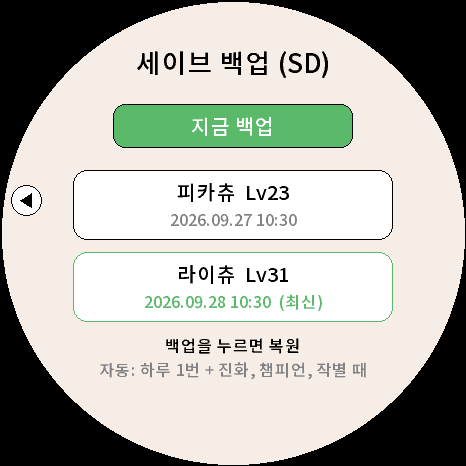
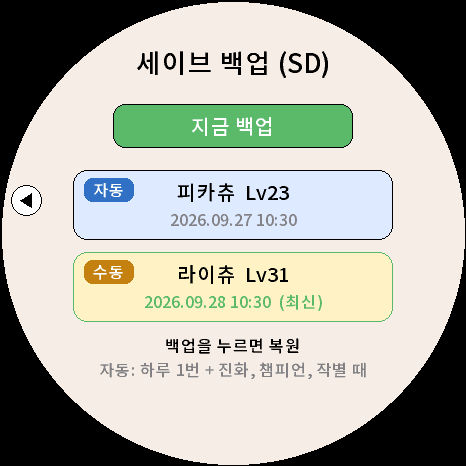
claude-version: backups marked manual/auto (header flags) with their own tag and colour - ko11.6.1, not built
Claude-Session: https://claude.ai/code/session_01CiwvMdFH9wtdhm1XA9VgMB

Changed region(s): [[0.1502, 0.5408, 0.8412, 0.691], [0.1502, 0.3605, 0.8412, 0.5107]]

diff --git a/claude-version/TamaPoke/savebak.h b/claude-version/TamaPoke/savebak.h
@@ -24,8 +24,9 @@ struct __attribute__((packed)) BakHdr {
   uint32_t epoch;    // cuando se hizo (0 = sin reloj)
   int16_t dex;       // el que se estaba criando (para ensenarlo al restaurar)
   uint16_t lvl;
-  uint32_t reserved;
+  uint32_t flags;    // ko11.6.1: BAKF_* (antes "reserved" = 0)
 };
+enum : uint32_t { BAKF_MANUAL = 1 };  // hecha con [ahora] (si no, automatica)
 static_assert(sizeof(BakHdr) == 24, "BakHdr");
 
 static inline uint32_t bakCrc32(const uint8_t *p, size_t n, uint32_t crc = 0) {
@@ -40,7 +41,7 @@ static inline uint32_t bakCrc32(const uint8_t *p, size_t n, uint32_t crc = 0) {
 class BakWriter {
 public:
   BakWriter(uint8_t *buf, size_t cap) : b_(buf), cap_(cap) {}
-  void begin(uint32_t seq, uint32_t epoch, int16_t dex, uint16_t lvl) {
+  void begin(uint32_t seq, uint32_t epoch, int16_t dex, uint16_t lvl, uint32_t flags = 0) {
     n_ = 0;
     ok_ = cap_ >= sizeof(BakHdr) + 4;
     if (!ok_) return;
@@ -52,6 +53,7 @@ public:
     h.epoch = epoch;
     h.dex = dex;
     h.lvl = lvl;
+    h.flags = flags;
     memcpy(b_, &h, sizeof(h));
     n_ = sizeof(h);
   }
@@ -123,5 +125,5 @@ static inline bool bakParse(const uint8_t *buf, size_t len, BakHdr *hdr, BakRecF
 struct BakSlot { bool ok; BakHdr h; };
 void bakInfo(BakSlot out[2]);                         // las dos ranuras de la SD (CRC comprobado)
 int bakNewest(const BakSlot s[2]);                    // -1 si no hay ninguna valida
-bool bakBackupNow(int16_t dex, uint16_t lvl, uint32_t epoch);  // escribe en la ranura mas vieja
+bool bakBackupNow(int16_t dex, uint16_t lvl, uint32_t epoch, bool manual = false);  // en la ranura mas vieja
 bool bakRestore(uint8_t slot);                        // NVS <- ranura; hay que reiniciar despues

diff --git a/claude-version/TamaPoke/i18n_ext.cpp b/claude-version/TamaPoke/i18n_ext.cpp
@@ -89,7 +89,7 @@ static const char *const XS[2][X_COUNT] = {
     "SAVE BACKUP", "SAVE BACKUP (SD)", "BACK UP NOW", "empty", "latest", "No SD card", "Backed up!", "Backup failed",
     "Backup found on the SD card", "RESTORE", "CANCEL", "Restore this backup?", "Current progress will be lost",
     "Tap a backup to restore", "Auto: daily + evolve/champion/farewell", "Restoring... restarting",
-    "Streak %u  (best %u)", "Streak broken (%u in a row)", "%u in a row",
+    "Streak %u  (best %u)", "Streak broken (%u in a row)", "%u in a row", "MANUAL", "AUTO",
     "MEADOW", "BEACH", "FOREST", "VOLCANO", "MOUNTAIN", "SNOWFIELD", "POWER PLANT", "DOJO",
     "SWAMP", "DESERT", "RUINS", "GARDEN", "GRAVEYARD", "DRAGON VALE", "CITY", "MINE",
   },
@@ -176,7 +176,7 @@ static const char *const XS[2][X_COUNT] = {
     "세이브 백업", "세이브 백업 (SD)", "지금 백업", "비어 있음", "최신", "SD카드가 없어요", "백업했어요!", "백업 실패",
     "SD카드에 백업이 있어요", "복원", "취소", "이 백업으로 복원할까요?", "지금 진행 상황은 사라져요", "백업을 누르면 복원",
     "자동: 하루 1번 + 진화, 챔피언, 작별 때", "복원 중... 다시 시작해요",
-    "연승 %u  (최고 %u연승)", "연승이 끊겼어요 (%u연승)", "%u연승",
+    "연승 %u  (최고 %u연승)", "연승이 끊겼어요 (%u연승)", "%u연승", "수동", "자동",
     "초원", "바닷가", "숲", "화산", "산", "설원", "발전소", "도장",
     "늪", "사막", "유적", "꽃밭", "묘지", "용의 계곡", "도시", "광산",
   },

diff --git a/claude-version/TamaPoke/test/render/stubs.cpp b/claude-version/TamaPoke/test/render/stubs.cpp
@@ -161,11 +161,11 @@ void bakInfo(BakSlot out[2]) {
   memset(out, 0, sizeof(BakSlot) * 2);
   if (!gBakDemo) return;
   out[0].ok = true; memcpy(out[0].h.magic, "TPBK", 4); out[0].h.seq = 4; out[0].h.epoch = 1790505000u; out[0].h.dex = 25; out[0].h.lvl = 23;
-  out[1].ok = true; memcpy(out[1].h.magic, "TPBK", 4); out[1].h.seq = 5; out[1].h.epoch = 1790591400u; out[1].h.dex = 26; out[1].h.lvl = 31;
+  out[1].ok = true; memcpy(out[1].h.magic, "TPBK", 4); out[1].h.seq = 5; out[1].h.epoch = 1790591400u; out[1].h.dex = 26; out[1].h.lvl = 31; out[1].h.flags = BAKF_MANUAL;
 }
 int bakNewest(const BakSlot s[2]) {
   if (s[0].ok && s[1].ok) return s[1].h.seq > s[0].h.seq ? 1 : 0;
   return s[0].ok ? 0 : s[1].ok ? 1 : -1;
 }
-bool bakBackupNow(int16_t, uint16_t, uint32_t) { return true; }
+bool bakBackupNow(int16_t, uint16_t, uint32_t, bool) { return true; }
 bool bakRestore(uint8_t) { return false; }

diff --git a/claude-version/TamaPoke/savebak_sd.cpp b/claude-version/TamaPoke/savebak_sd.cpp
@@ -76,7 +76,7 @@ static bool addEntry(BakWriter &w, nvs_handle_t h, const char *ns, const nvs_ent
   }
 }
 
-bool bakBackupNow(int16_t dex, uint16_t lvl, uint32_t epoch) {
+bool bakBackupNow(int16_t dex, uint16_t lvl, uint32_t epoch, bool manual) {
   uint8_t *buf = bakBuf();
   if (!sdReady || !buf) return false;
   BakSlot s[2];
@@ -85,7 +85,7 @@ bool bakBackupNow(int16_t dex, uint16_t lvl, uint32_t epoch) {
   uint8_t slot = nw < 0 ? 0 : (uint8_t)(1 - nw);  // se pisa la mas vieja: la otra queda
   uint32_t seq = nw < 0 ? 1 : s[nw].h.seq + 1;
   BakWriter w(buf, BAK_MAX_BYTES);
-  w.begin(seq, epoch, dex, lvl);
+  w.begin(seq, epoch, dex, lvl, manual ? BAKF_MANUAL : 0);
   for (const BakNs &b : BAK_NS) {
     const char *part = partFor(b.big);
     nvs_handle_t h;

diff --git a/claude-version/TamaPoke/i18n_ext.h b/claude-version/TamaPoke/i18n_ext.h
@@ -92,7 +92,8 @@ enum XId : uint16_t {  // ko10.6: pasaron de 255
   X_BAK_BTN, X_BAK_TITLE, X_BAK_NOW, X_BAK_EMPTY, X_BAK_NEWEST, X_BAK_NOSD, X_BAK_DONE, X_BAK_FAIL,
   X_BAK_ASK_TITLE, X_BAK_RESTORE, X_BAK_CANCEL, X_BAK_CONFIRM, X_BAK_WARN, X_BAK_TAP_SLOT, X_BAK_AUTO,
   X_BAK_RESTORING,  // ko11.6
-  X_STREAK_FMT, X_STREAK_LOST_FMT, X_FAME_STREAK_FMT,  // ko11.6.1  // ko11.1
+  X_STREAK_FMT, X_STREAK_LOST_FMT, X_FAME_STREAK_FMT,  // ko11.6.1
+  X_BAK_MANUAL, X_BAK_AUTO_TAG,  // ko11.1
   X_REG_0, X_REG_1, X_REG_2, X_REG_3, X_REG_4, X_REG_5, X_REG_6, X_REG_7,
   X_REG_8, X_REG_9, X_REG_10, X_REG_11, X_REG_12, X_REG_13, X_REG_14, X_REG_15,
   X_COUNT

diff --git a/claude-version/TamaPoke/test/test_savebak.cpp b/claude-version/TamaPoke/test/test_savebak.cpp
@@ -64,3 +64,19 @@ TEST(savebak, no_cabe_no_se_escribe) {
   w2.begin(1, 0, 1, 1);
   CHECK(!w2.add("un_espacio_muy_largo", "k", 1, big, 1));  // nombres de NVS: 15 max
 }
+
+// ko11.6.1: la marca de copia manual va en la cabecera
+TEST(savebak, marca_manual) {
+  std::vector<uint8_t> buf(256);
+  BakWriter w(buf.data(), buf.size());
+  w.begin(3, 0, 25, 9, BAKF_MANUAL);
+  size_t n = w.finish();
+  BakHdr h;
+  CHECK(bakParse(buf.data(), n, &h));
+  CHECK(h.flags & BAKF_MANUAL);
+  BakWriter a(buf.data(), buf.size());
+  a.begin(4, 0, 25, 9);
+  n = a.finish();
+  CHECK(bakParse(buf.data(), n, &h));
+  CHECK_EQ(h.flags, 0u);
+}
